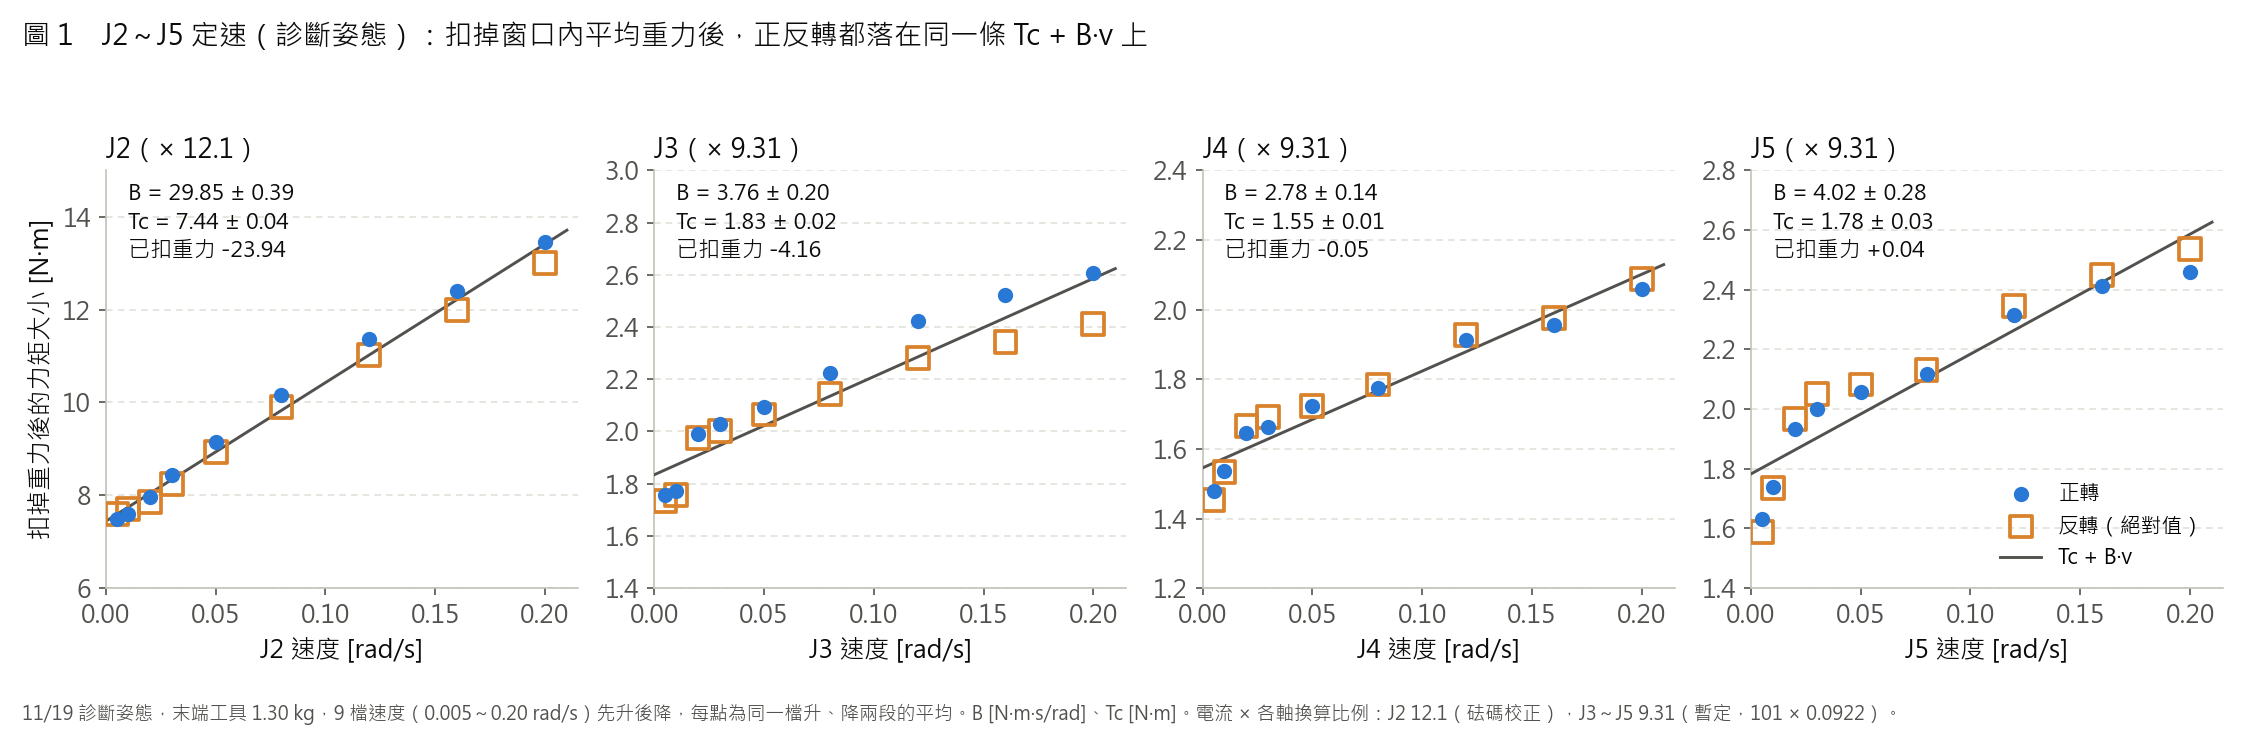
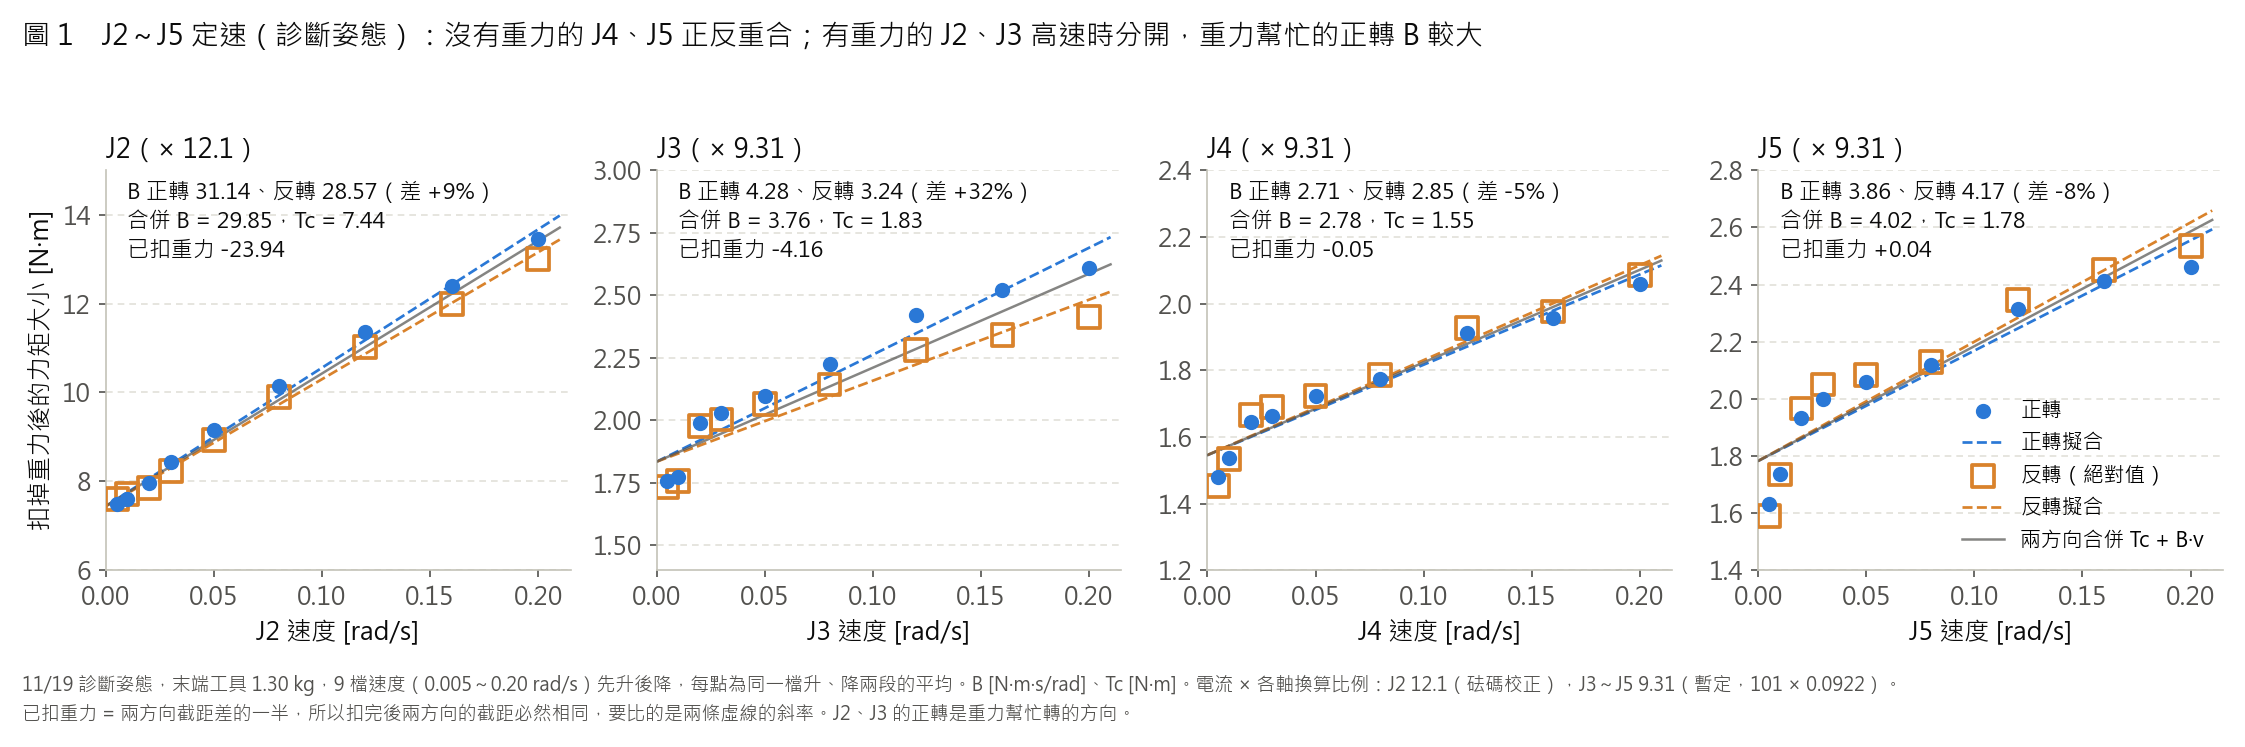
11/25 報告圖 1：加正反各自擬合線，標題改為 J2、J3 有重力時正反分開
- 每軸加正轉、反轉各自的擬合虛線（扣重力後截距相同，只差斜率），標出兩方向 B 與差異百分比
- 圖說註明扣重力的方法讓截距必然相同，要比斜率

diff --git a/analysis/1119/report_figs_1125.py b/analysis/1119/report_figs_1125.py
@@ -178,9 +178,15 @@ for ax, j, yl in zip(axs, (2, 3, 4, 5), ((6, 15), (1.4, 3.0), (1.2, 2.4), (1.4, 
         v = np.round(np.abs([s[1] for s in seg]), 3); tau = sgn * np.array([s[3] for s in seg])
         vs = np.unique(v)
         ax.scatter(vs, [tau[v == x].mean() - sgn * c["H"] for x in vs], label=lab, **kw)
-    ax.plot(vv, c["Tc"] + c["B"] * vv, color=INK2, lw=1.4, zorder=3, label="Tc + B·v")
+        # 各方向自己的直線（扣重力後截距都是 Tc，差別只在斜率）：C_pos = Tc + H、C_neg = Tc - H（C 已乘方向）
+        b_d, c_d = c[f"B_{d}"], c[f"C_{d}"] - sgn * c["H"]
+        ax.plot(vv, c_d + b_d * vv, color=col, lw=1.3, ls="--", zorder=2,
+                label=("正轉擬合" if d == "pos" else "反轉擬合"))
+    ax.plot(vv, c["Tc"] + c["B"] * vv, color=INK2, lw=1.2, zorder=3, alpha=0.7, label="兩方向合併 Tc + B·v")
+    dB = 100 * (c["B_pos"] / c["B_neg"] - 1)
     ax.text(0.01, yl[1] - 0.03 * (yl[1] - yl[0]),
-            f"B = {c['B']:.2f} ± {c['sd_B']:.2f}\nTc = {c['Tc']:.2f} ± {c['sd_Tc']:.2f}\n已扣重力 {c['H']:+.2f}",
+            f"B 正轉 {c['B_pos']:.2f}、反轉 {c['B_neg']:.2f}（差 {dB:+.0f}%）\n"
+            f"合併 B = {c['B']:.2f}，Tc = {c['Tc']:.2f}\n已扣重力 {c['H']:+.2f}",
             ha="left", va="top", fontsize=10.5, color=INK, linespacing=1.4)
     ax.set_xlim(0, 0.215); ax.set_ylim(*yl)
     ax.set_xlabel(f"J{j} 速度 [rad/s]")
@@ -188,12 +194,14 @@ for ax, j, yl in zip(axs, (2, 3, 4, 5), ((6, 15), (1.4, 3.0), (1.2, 2.4), (1.4, 
     style(ax)
 axs[0].set_ylabel("扣掉重力後的力矩大小 [N·m]")
 axs[3].legend(loc="lower right", frameon=False, fontsize=10)
-fig.suptitle("圖 1　J2～J5 定速（診斷姿態）：扣掉窗口內平均重力後，正反轉都落在同一條 Tc + B·v 上", x=0.01, ha="left",
-             fontsize=13.5, color=INK)
+fig.suptitle("圖 1　J2～J5 定速（診斷姿態）：沒有重力的 J4、J5 正反重合；有重力的 J2、J3 高速時分開，重力幫忙的正轉 B 較大",
+             x=0.01, ha="left", fontsize=13.5, color=INK)
 fig.text(0.01, 0.005, "11/19 診斷姿態，末端工具 1.30 kg，9 檔速度（0.005～0.20 rad/s）先升後降，每點為同一檔升、降兩段的平均。"
-         f"B [N·m·s/rad]、Tc [N·m]。電流 × 各軸換算比例：J2 {K2}（砝碼校正），J3～J5 {KW}（暫定，101 × 0.0922）。",
-         ha="left", va="bottom", fontsize=9, color=INK2)
-fig.tight_layout(rect=(0, 0.05, 1, 0.94))
+         f"B [N·m·s/rad]、Tc [N·m]。電流 × 各軸換算比例：J2 {K2}（砝碼校正），J3～J5 {KW}（暫定，101 × 0.0922）。\n"
+         "已扣重力 = 兩方向截距差的一半，所以扣完後兩方向的截距必然相同，要比的是兩條虛線的斜率。"
+         "J2、J3 的正轉是重力幫忙轉的方向。",
+         ha="left", va="bottom", fontsize=9, color=INK2, linespacing=1.5)
+fig.tight_layout(rect=(0, 0.075, 1, 0.94))
 f3 = save(fig, "w1125_fig1_friction_j2_j5.png")
 
 # ---------------- 圖 4：手腕 J3～J5 速度調變 ----------------
